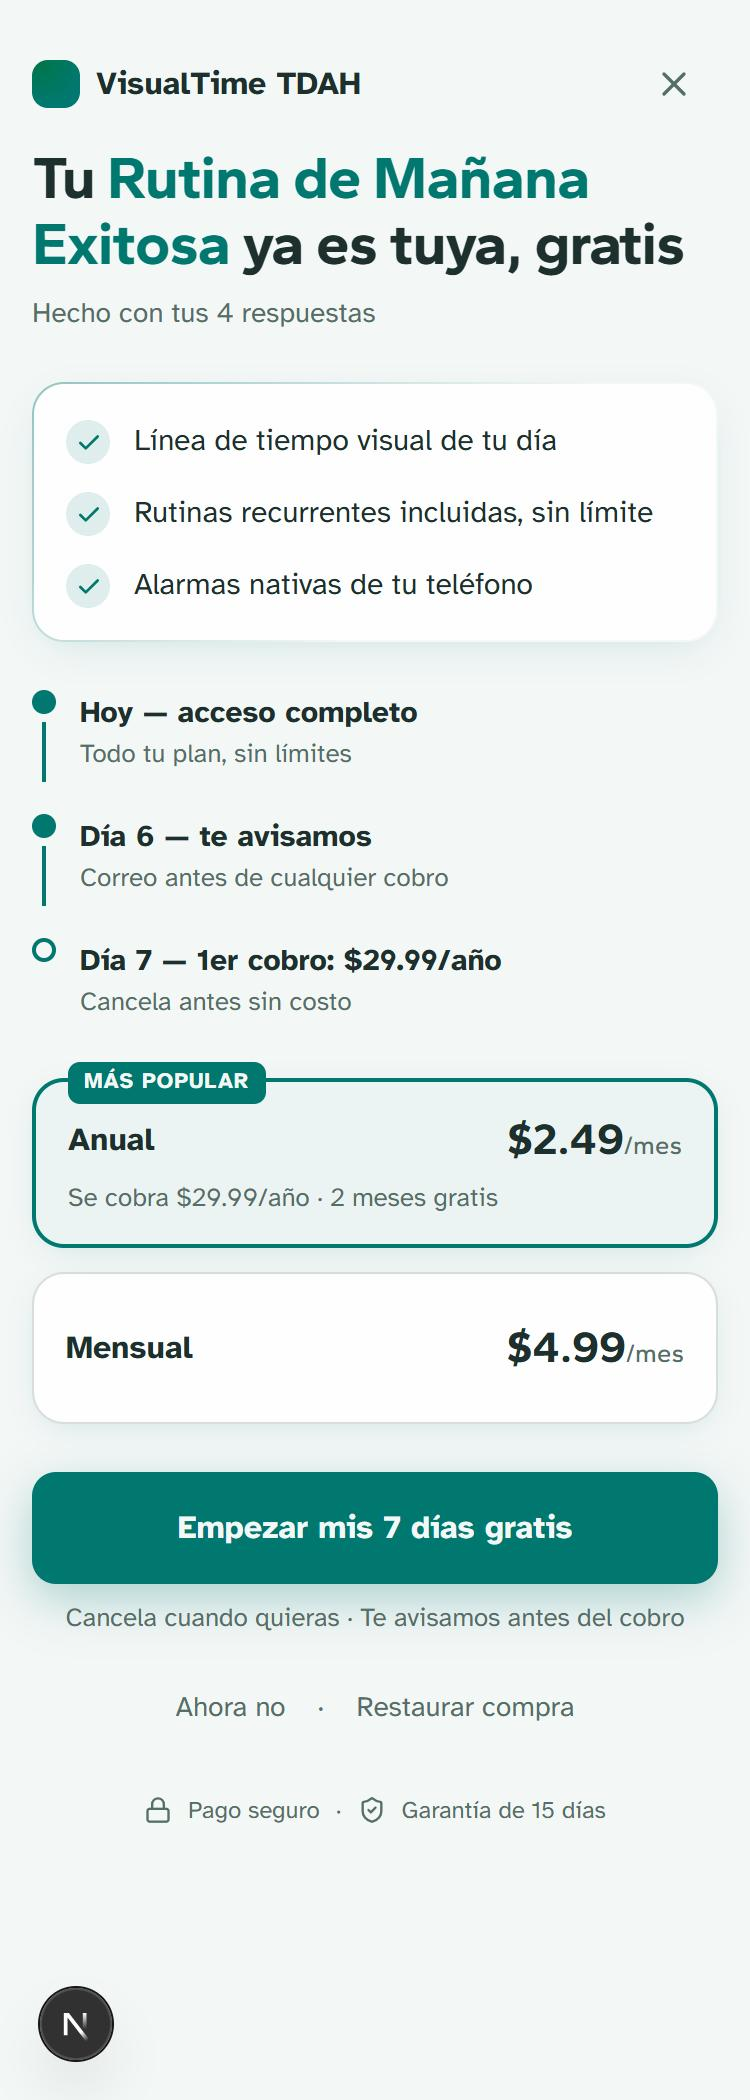
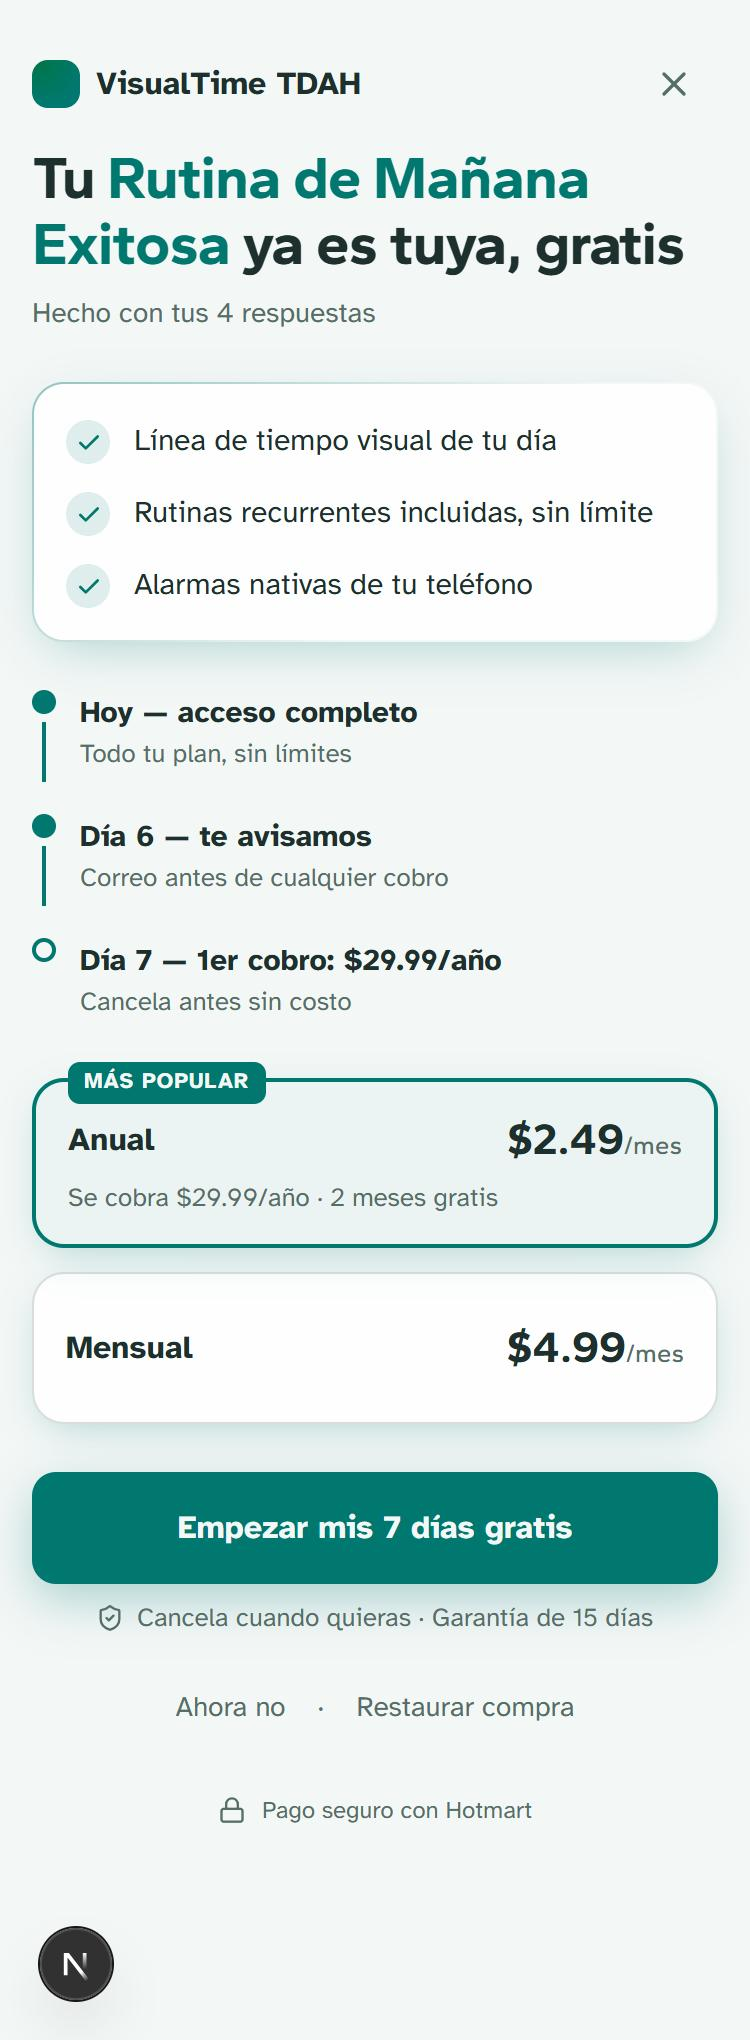
Sesión 4: refuerza profundidad, estado final de restaurar compra, garantía junto al CTA

diff --git a/app/paywall/page.tsx b/app/paywall/page.tsx
@@ -13,7 +13,7 @@ export default function Paywall() {
   const router = useRouter();
   const [respuestas, setRespuestas] = useState<Respuestas | null>(null);
   const [plan, setPlan] = useState<PlanId>('anual');
-  const [restaurando, setRestaurando] = useState(false);
+  const [restauro, setRestauro] = useState<'idle' | 'buscando' | 'sin-compra'>('idle');
   const reducedMotion = useReducedMotion();
 
   useEffect(() => {
@@ -31,20 +31,22 @@ export default function Paywall() {
 
   const restaurarCompra = () => {
     // Verificación real contra Hotmart/Supabase llega en Sesión 6 — por ahora
-    // el botón SÍ responde (nunca un botón muerto, 50 → anti-patrones).
-    setRestaurando(true);
-    window.setTimeout(() => setRestaurando(false), 2200);
+    // el botón SÍ responde y SIEMPRE cierra con un resultado (nunca se queda
+    // "Buscando…" sin decir qué pasó — 50 → heurística de estado del sistema).
+    setRestauro('buscando');
+    window.setTimeout(() => setRestauro('sin-compra'), 1800);
   };
 
   return (
     <main className="relative flex min-h-dvh flex-col overflow-hidden bg-[var(--bg)] [font-family:var(--font-body)]">
-      {/* Fondo con profundidad (mesh sutil del acento) — nunca fill plano, 55 gate G */}
+      {/* Fondo con profundidad (mesh del acento, dispositivo ownable) — nunca fill
+          plano, 55 gate G. Intensidad subida tras veredicto: al 7% no se notaba. */}
       <div
         aria-hidden="true"
         className="pointer-events-none absolute inset-0 -z-10"
         style={{
           background:
-            'radial-gradient(780px 460px at 10% -10%, color-mix(in oklab, var(--accent) 7%, transparent) 0%, transparent 60%), radial-gradient(640px 420px at 100% 10%, color-mix(in oklab, var(--accent-2) 5%, transparent) 0%, transparent 55%)',
+            'radial-gradient(820px 480px at 8% -10%, color-mix(in oklab, var(--accent) 16%, transparent) 0%, transparent 62%), radial-gradient(680px 440px at 102% 12%, color-mix(in oklab, var(--accent-2) 12%, transparent) 0%, transparent 58%)',
         }}
       />
       <div className="relative mx-auto w-full max-w-[520px] flex-1 px-4 pb-10 pt-5">
@@ -95,7 +97,7 @@ export default function Paywall() {
           transition={{ duration: 0.3, delay: reducedMotion ? 0 : 0.08 }}
           className="mt-6"
         >
-          <Hairline className="flex flex-col gap-3 p-4 shadow-[0_6px_20px_-8px_rgb(15_118_110_/_0.2)]">
+          <Hairline className="flex flex-col gap-3 p-4 shadow-[0_8px_26px_-8px_rgb(15_118_110_/_0.32)]">
             {[
               'Línea de tiempo visual de tu día',
               'Rutinas recurrentes incluidas, sin límite',
@@ -152,7 +154,7 @@ export default function Paywall() {
           <button
             type="button"
             onClick={() => setPlan('anual')}
-            className={`relative flex min-h-[76px] flex-col justify-center rounded-[var(--radius-card)] border px-4 py-3 text-left shadow-[0_4px_16px_-6px_rgb(15_118_110_/_0.2)] transition-colors ${
+            className={`relative flex min-h-[76px] flex-col justify-center rounded-[var(--radius-card)] border px-4 py-3 text-left shadow-[0_6px_20px_-6px_rgb(15_118_110_/_0.3)] transition-colors ${
               plan === 'anual'
                 ? 'border-[2px] border-[var(--accent)] bg-[color-mix(in_oklab,var(--accent)_7%,var(--surface))]'
                 : 'border border-[color-mix(in_oklab,var(--text-tertiary)_22%,transparent)] bg-[var(--surface)]'
@@ -173,7 +175,7 @@ export default function Paywall() {
           <button
             type="button"
             onClick={() => setPlan('mensual')}
-            className={`flex min-h-[76px] flex-col justify-center rounded-[var(--radius-card)] border px-4 py-3 text-left shadow-[0_4px_16px_-6px_rgb(15_118_110_/_0.2)] transition-colors ${
+            className={`flex min-h-[76px] flex-col justify-center rounded-[var(--radius-card)] border px-4 py-3 text-left shadow-[0_6px_20px_-6px_rgb(15_118_110_/_0.3)] transition-colors ${
               plan === 'mensual'
                 ? 'border-[2px] border-[var(--accent)] bg-[color-mix(in_oklab,var(--accent)_7%,var(--surface))]'
                 : 'border border-[color-mix(in_oklab,var(--text-tertiary)_22%,transparent)] bg-[var(--surface)]'
@@ -199,8 +201,10 @@ export default function Paywall() {
         >
           Empezar mis 7 días gratis
         </motion.button>
-        <p className="mt-2 text-center text-[13px] text-[var(--text-secondary)]">
-          Cancela cuando quieras · Te avisamos antes del cobro
+        {/* Garantía nombrada CERCA del CTA (52 §4 / 50 C2-7): no solo al fondo de la pantalla. */}
+        <p className="mt-2 flex items-center justify-center gap-1.5 text-center text-[13px] text-[var(--text-secondary)]">
+          <ShieldCheck size={14} aria-hidden="true" className="shrink-0" />
+          Cancela cuando quieras · Garantía de 15 días
         </p>
 
         <div className="mt-4 flex items-center justify-center gap-4 text-[14px] font-medium text-[var(--text-secondary)]">
@@ -208,17 +212,23 @@ export default function Paywall() {
             Ahora no
           </button>
           <span aria-hidden="true">·</span>
-          <button type="button" onClick={restaurarCompra} disabled={restaurando} className="py-2 disabled:opacity-60">
-            {restaurando ? 'Buscando tu compra…' : 'Restaurar compra'}
+          <button type="button" onClick={restaurarCompra} disabled={restauro === 'buscando'} className="py-2 disabled:opacity-60">
+            {restauro === 'buscando' ? 'Buscando tu compra…' : 'Restaurar compra'}
           </button>
         </div>
+        {restauro === 'sin-compra' && (
+          <motion.p
+            initial={{ opacity: 0 }}
+            animate={{ opacity: 1 }}
+            className="mt-2 text-center text-[13px] text-[var(--text-secondary)]"
+          >
+            No encontramos una compra para este dispositivo todavía.
+          </motion.p>
+        )}
 
         <div className="mt-6 flex items-center justify-center gap-2 text-[12px] text-[var(--text-secondary)]">
           <Lock size={14} aria-hidden="true" />
-          <span>Pago seguro</span>
-          <span aria-hidden="true">·</span>
-          <ShieldCheck size={14} aria-hidden="true" />
-          <span>Garantía de 15 días</span>
+          <span>Pago seguro con Hotmart</span>
         </div>
       </div>
     </main>

diff --git a/app/onboarding/page.tsx b/app/onboarding/page.tsx
@@ -5,6 +5,7 @@ import { useRouter } from 'next/navigation';
 import { AnimatePresence, motion, useReducedMotion } from 'motion/react';
 import { ChevronLeft, Check } from 'lucide-react';
 import { PREGUNTAS, guardarRespuestas, type Respuestas } from '@/lib/onboarding';
+import { Hairline } from '@/components/landing/ui';
 
 const PAUSA_SELECCION_MS = 320;
 const DURACION_LOADING_MS = 5200;
@@ -24,7 +25,12 @@ function TituloConAcento({ texto, acento }: { texto: string; acento: string }) {
 
 function ProgresoBar({ pct }: { pct: number }) {
   return (
-    <div className="h-[3px] w-full overflow-hidden rounded-full bg-[color-mix(in_oklab,var(--text-tertiary)_15%,transparent)]">
+    // Surco "hundido" (tercer nivel de profundidad, --surface-2 + sombra interior) —
+    // el track era un fill plano sin relación con el sistema de 3 niveles de 55.
+    <div
+      className="h-[3px] w-full overflow-hidden rounded-full bg-[var(--surface-2)]"
+      style={{ boxShadow: 'inset 0 1px 2px rgb(15 118 110 / 0.18)' }}
+    >
       <motion.div
         className="h-full rounded-full bg-[var(--accent)]"
         initial={false}
@@ -113,7 +119,7 @@ function PantallaPregunta({
               initial={reducedMotion ? false : { opacity: 0, y: 8 }}
               animate={{ opacity: 1, y: 0 }}
               transition={{ delay: reducedMotion ? 0 : i * 0.05, duration: 0.2 }}
-              className={`flex min-h-14 items-center justify-between rounded-[var(--radius-button)] border px-4 py-3 text-left text-[16px] font-medium shadow-[0_2px_10px_-4px_rgb(15_118_110_/_0.16)] transition-colors ${
+              className={`flex min-h-14 items-center justify-between rounded-[var(--radius-button)] border px-4 py-3 text-left text-[16px] font-medium shadow-[0_6px_18px_-4px_rgb(15_118_110_/_0.32)] transition-colors ${
                 activo
                   ? 'border-[var(--accent)] border-[1.5px] bg-[color-mix(in_oklab,var(--accent)_10%,var(--surface))] text-[var(--text-primary)]'
                   : 'border-[color-mix(in_oklab,var(--text-tertiary)_22%,transparent)] bg-[var(--surface)] text-[var(--text-primary)]'
@@ -164,6 +170,22 @@ function PantallaPregunta({
           </div>
         )}
       </div>
+
+      {/* Tarjeta de contexto (Hairline degradé — dispositivo ownable, 55 gate G).
+          Llena el espacio vacío bajo las opciones con ayuda real, no relleno. */}
+      <motion.div
+        initial={reducedMotion ? { opacity: 0 } : { opacity: 0, y: 10 }}
+        animate={{ opacity: 1, y: 0 }}
+        transition={{ duration: 0.25, delay: 0.2 }}
+        className="mt-8"
+      >
+        <Hairline className="p-4 shadow-[0_6px_18px_-6px_rgb(15_118_110_/_0.22)]">
+          <p className="text-[13px] leading-relaxed text-[var(--text-secondary)]">
+            <span className="font-semibold text-[var(--text-primary)]">Con tus respuestas</span> armamos tu
+            línea de tiempo al instante — nada se comparte ni se publica sin que tú lo decidas.
+          </p>
+        </Hairline>
+      </motion.div>
     </motion.div>
   );
 }
@@ -288,13 +310,15 @@ export default function Onboarding() {
 
   return (
     <main className="relative flex min-h-dvh flex-col overflow-hidden bg-[var(--bg)] [font-family:var(--font-body)]">
-      {/* Fondo con profundidad (mesh sutil del acento) — nunca fill plano, 55 gate G */}
+      {/* Fondo con profundidad (mesh del acento, dispositivo ownable de FICHA-ARTE) —
+          nunca fill plano, 55 gate G. Intensidad subida tras veredicto del revisor:
+          al 7% era imperceptible en el screenshot real. */}
       <div
         aria-hidden="true"
         className="pointer-events-none absolute inset-0 -z-10"
         style={{
           background:
-            'radial-gradient(760px 420px at 85% -8%, color-mix(in oklab, var(--accent) 7%, transparent) 0%, transparent 60%), radial-gradient(620px 420px at 0% 30%, color-mix(in oklab, var(--accent-2) 5%, transparent) 0%, transparent 55%)',
+            'radial-gradient(820px 460px at 88% -10%, color-mix(in oklab, var(--accent) 16%, transparent) 0%, transparent 62%), radial-gradient(680px 460px at -5% 35%, color-mix(in oklab, var(--accent-2) 12%, transparent) 0%, transparent 58%)',
         }}
       />
       <header className="mx-auto w-full max-w-[520px] px-4 pt-5">

diff --git a/docs/revisiones/paywall-veredicto.md b/docs/revisiones/paywall-veredicto.md
@@ -1,14 +1,14 @@
 # VEREDICTO revisor-visual — paywall
 Fecha: 2026-11-02 00:00
 Screenshot: docs/revisiones/paywall-375.png
-Usabilidad: 27/40
-Craft: 12/20
-Copy (si vende): 14/20
+Usabilidad: 30/40
+Craft: 13/20
+Copy (si vende): 16/20
 Fidelidad (si hubo referencia): N-A
 Veredicto: NO LISTA
 Top defectos:
-1. [Fila inferior "Restaurar compra"] Botón sin onClick ni handler en app/paywall/page.tsx (línea ~175) — se ve interactivo pero no hace absolutamente nada al tocarlo → implementar la lógica real de restauración o quitarlo del flujo hasta tenerla, con feedback de estado al tocar.
-2. [Toda la pantalla] Fondo y tarjetas (value stack, planes) sin sombra ni gradiente, solo bordes — contradice "sombras sutiles tintadas" de FICHA-ARTE.md → aplicar shadow/gradient sutil al bloque de beneficios y a las tarjetas de plan.
-3. [Toda la pantalla] Cero dispositivo ownable (duotone de marca) visible pese a estar definido en FICHA-ARTE.md y ya implementado como componente IconChip en components/landing/ui.tsx pero no usado aquí → aplicar IconChip duotone al menos en el value stack de 3 beneficios.
-4. [Tarjeta "Anual" / bloque garantía] No se usa el componente Hairline (ya existe en ui.tsx) en ningún elemento clave del paywall, pese a que la ficha pide máx 1-3 hairlines degradé para señalar "esto importa" → aplicar Hairline al plan recomendado o al bloque de garantía.
-5. [Titular "Tu Rutina de Mañana Exitosa está lista"] Big idea genérica de "tu plan está listo", no explota el ángulo diferenciador de FICHA-AVATAR.md ("la agenda que no te cobra por repetir tus tareas" / dolor de injusticia de cobros) → reforzar el headline o el copy inmediato con ese mecanismo específico.
+1. [value-stack, plan cards, fondo] Igual que en onboarding, las sombras tintadas y el mesh de fondo son demasiado sutiles para leerse como profundidad real en el screenshot — todo el bloque se percibe casi plano → subir el contraste de sombra/mesh.
+2. [identidad ownable] El código marca el borde Hairline del value-stack como "el dispositivo ownable", pero FICHA-ARTE define el dispositivo ownable como el duotone de marca, no el hairline — y ese duotone solo vive en el logo de 24px, invisible a este tamaño → corregir la atribución y hacer visible el duotone en algún elemento de mayor tamaño (chip de ícono, ilustración).
+3. [Restaurar compra, código línea 32-37] El botón da feedback de carga ("Buscando tu compra…") pero tras los 2.2s no muestra ningún resultado (éxito/fallo) — el usuario se queda sin saber qué pasó → agregar mensaje de cierre (toast o texto) tras restaurar.
+4. [garantía, abajo de la pantalla] "Garantía de 15 días" queda lejos del CTA principal (debajo de "Ahora no / Restaurar compra"), rompiendo el sub-check de copy que pide el plazo de garantía cerca del CTA → mover el bloque de confianza justo debajo del botón "Empezar mis 7 días gratis".
+5. [longitud de pantalla] La pantalla apila headline + value-stack + timeline + 2 tarjetas de plan + CTA + 2 filas de links + trust row — mucho scroll en 375px, carga cognitiva alta para un paywall → compactar value-stack o timeline.

diff --git a/docs/revisiones/onboarding-veredicto.md b/docs/revisiones/onboarding-veredicto.md
@@ -1,14 +1,14 @@
 # VEREDICTO revisor-visual — onboarding
 Fecha: 2026-11-02 00:00
 Screenshot: docs/revisiones/onboarding-375.png
-Usabilidad: 30/40
-Craft: 10/20
+Usabilidad: 31/40
+Craft: 13/20
 Copy (si vende): N-A
 Fidelidad (si hubo referencia): N-A
 Veredicto: NO LISTA
 Top defectos:
-1. [Toda la pantalla] Fondo y tarjetas de opción totalmente planos (border sin sombra), contradice "sombras sutiles tintadas RGB 15·118·110" de FICHA-ARTE.md → agregar box-shadow sutil teal a los botones de opción y un leve tinte al fondo.
-2. [Toda la pantalla] No hay ningún dispositivo ownable (duotone de marca / icon chips) visible — la pregunta es texto puro sin ícono ni ilustración → agregar al menos un icon chip duotone relacionado a la pregunta, como define FICHA-ARTE.md.
-3. [Titular "¿Qué es lo que más te frustra hoy?"] Texto plano sin ninguna palabra en acento — no cumple el gate de "titular con énfasis: bold + 1-3 palabras en acento" → resaltar 1-2 palabras clave en var(--accent).
-4. [Mitad inferior de la pantalla] ~45% del viewport queda vacío entre las opciones y el footer flotante, sin balance óptico → centrar verticalmente el bloque pregunta+opciones o sumar un elemento de apoyo.
-5. [Círculo flotante "N", esquina inferior izquierda] Elemento con apariencia interactiva visible en el screenshot que no aparece en app/onboarding/page.tsx revisado — si pertenece al producto, falta verificar su función y accesibilidad (aria-label); si es ajeno a la app, no debería aparecer en el flujo revisado.
+1. [fondo + tarjetas] El mesh de fondo y la sombra de las tarjetas de opción (shadow 0_2px_10px -4px @16%) son tan sutiles que en el screenshot se leen como un fill plano, igual que en la revisión anterior → subir opacidad/spread de la sombra y el mesh hasta que la elevación se note sin entrecerrar los ojos.
+2. [header, logo 24px] El "dispositivo ownable" (duotone de marca) vive solo en un chip de 24x24px con blend soft-light al 60% — a ese tamaño y compresión es imperceptible, se ve como un cuadrado teal liso → aumentar el tamaño del tratamiento o añadir un segundo elemento ownable visible (textura/ilustración) en la pantalla.
+3. [sistema de profundidad] Esta pantalla solo expone 2 de los 3 niveles que pide la ficha (base + superficie elevada); no hay ninguna superficie hundida visible que confirme el sistema de 3 niveles.
+4. [flexibilidad, H7] Cero atajos/eficiencias más allá del auto-avance al tocar; el enlace "Otra cosa (escribe la tuya)" es texto subrayado de bajo contraste, fácil de pasar por alto.
+5. [balance vertical] Debajo de las 4 opciones queda un bloque de espacio vacío muy grande hasta el fondo de la pantalla — la composición se siente incompleta/descompensada en 375px.
